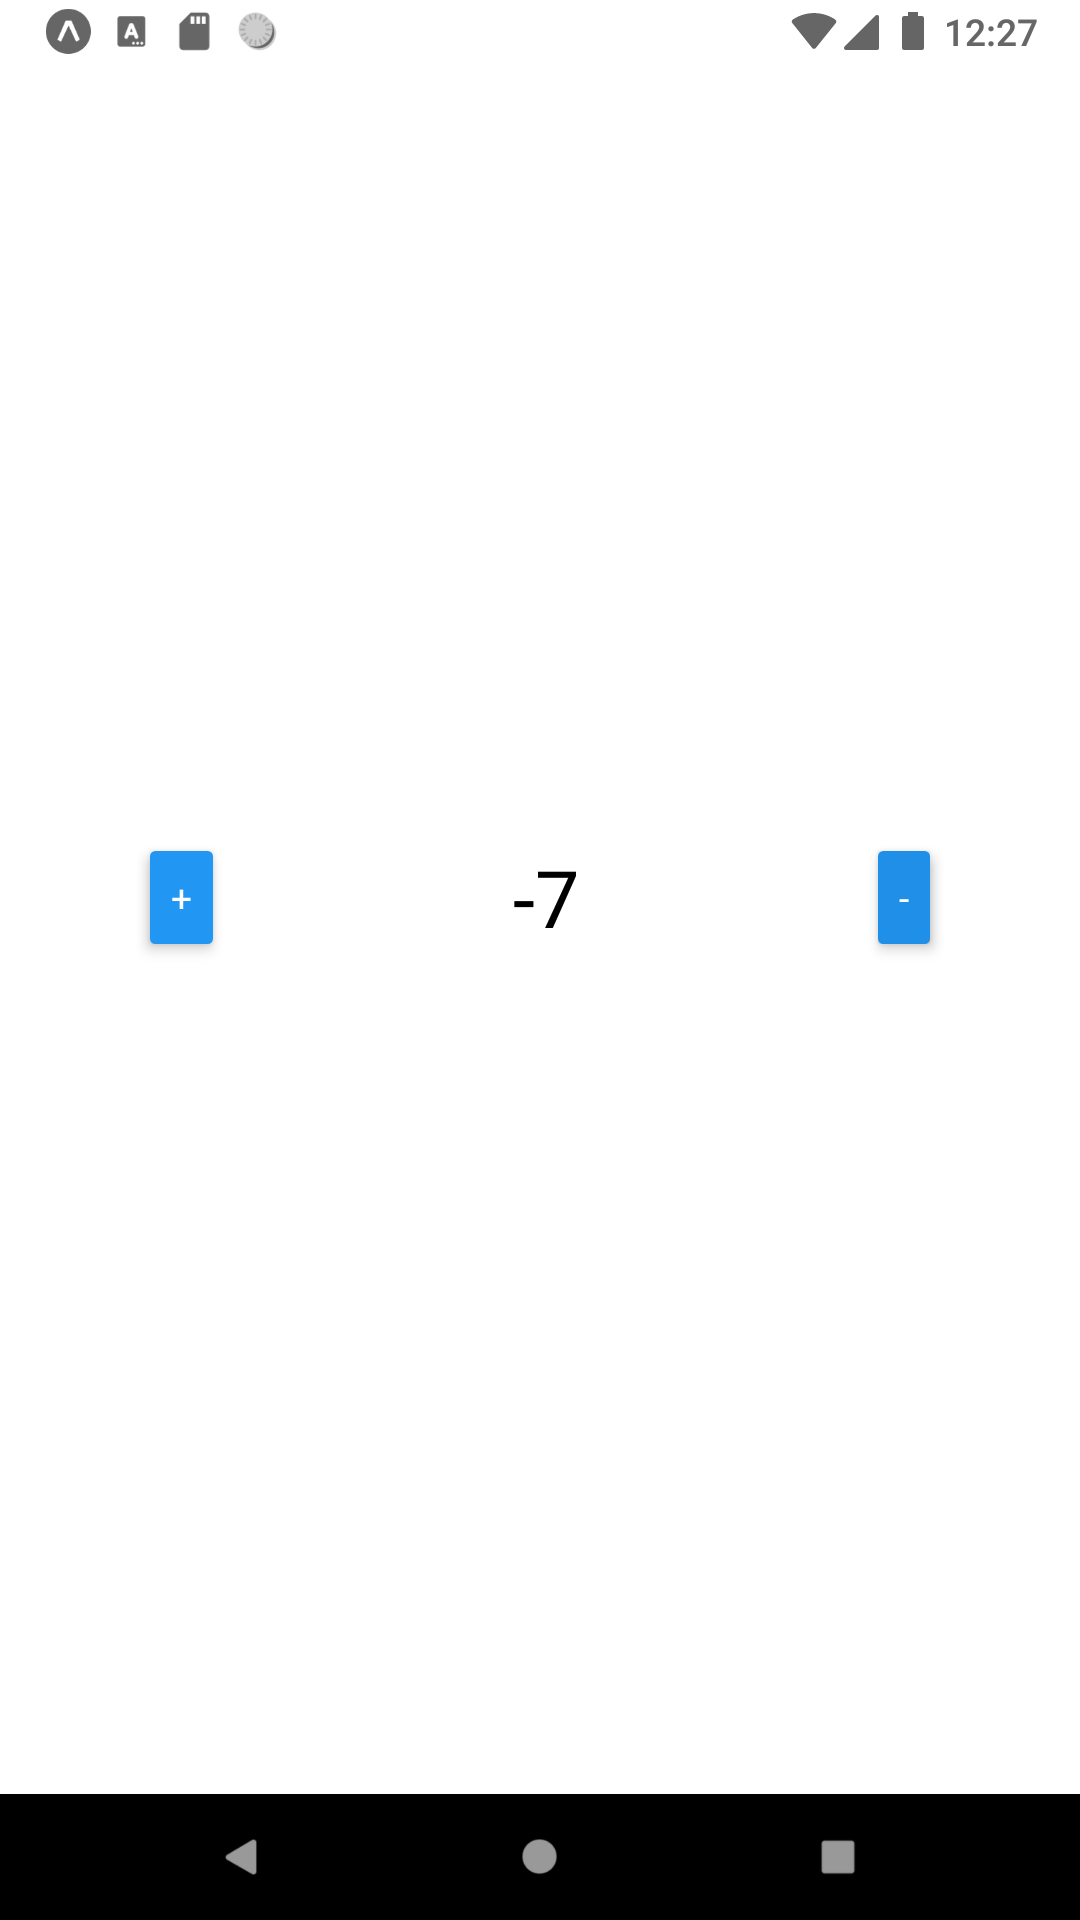
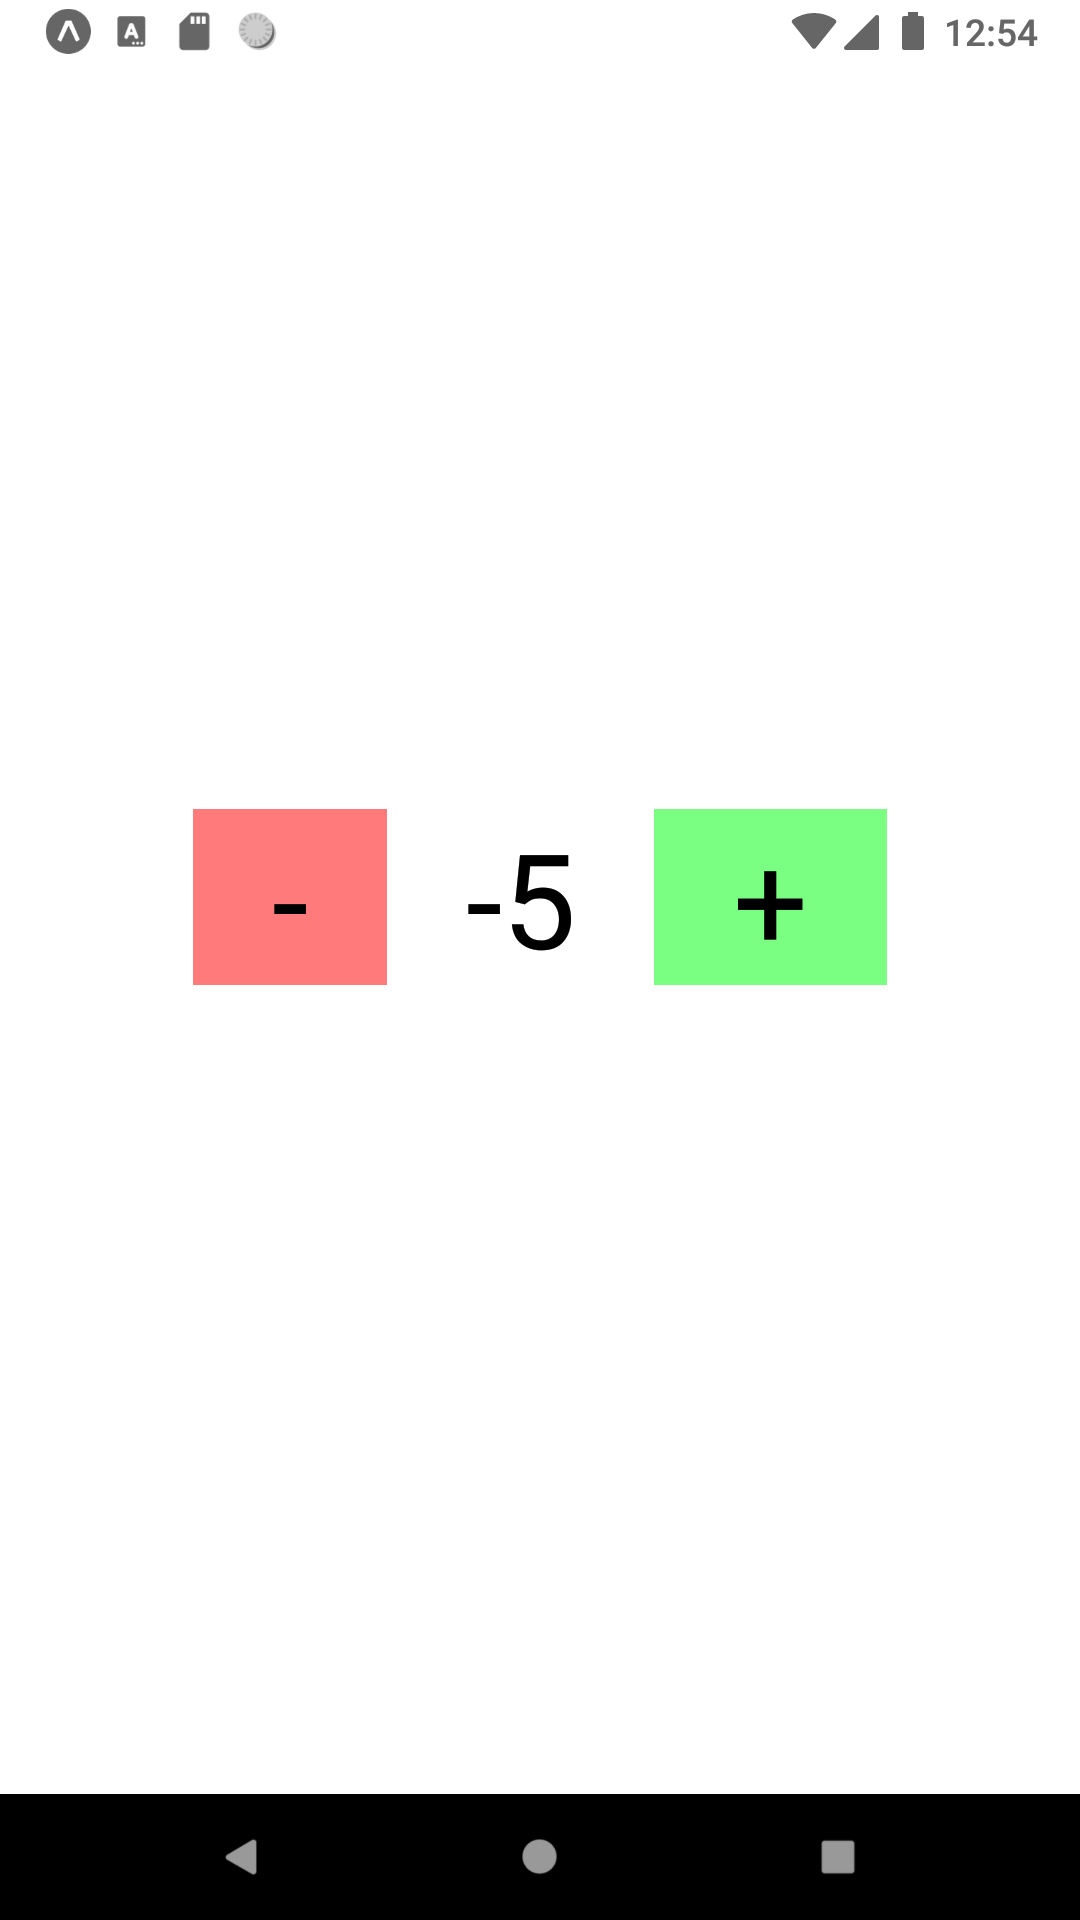
Edited styles

diff --git a/App.js b/App.js
@@ -1,24 +1,30 @@
 import { StatusBar } from 'expo-status-bar';
 import React, { useState } from 'react';
-import { StyleSheet, Text, View, Button } from 'react-native';
+import { StyleSheet, Text, View, TouchableOpacity } from 'react-native';
 
 
 
 function App() {
 
   const [counter, setCounter] = useState(0);
+  const increase = () => setCounter(counter + 1);
+  const decrease = () => setCounter(counter - 1);
 
   return (
     <View style={styles.container}>
-      <Button
-        style={styles.button}
-        title="+"
-        onPress={() => setCounter(counter + 1)} />
+      <TouchableOpacity
+        onPress={decrease}>
+        <View style={styles.button, {backgroundColor: '#FF7B7B'}}>
+          <Text style={styles.counter}>-</Text>
+        </View>
+      </TouchableOpacity>
       <Text style={styles.counter}>{counter}</Text>
-      <Button
-        style={styles.button}
-        title="-"
-        onPress={() => setCounter(counter - 1)} />
+      <TouchableOpacity
+        onPress={increase}>
+        <View style={styles.button, {backgroundColor: '#7BFF83'}}>
+          <Text style={styles.counter}>+</Text>
+        </View>
+      </TouchableOpacity>
       <StatusBar style="auto" />
     </View>
   );
@@ -30,10 +36,14 @@ const styles = StyleSheet.create({
     flexDirection: 'row',
     backgroundColor: '#fff',
     alignItems: 'center',
-    justifyContent: 'space-around',
+    justifyContent: 'center',
   },
   counter: {
-    fontSize: 30,
+    fontSize: 50,
+    marginHorizontal: 30,
+  },
+  button: {
+    paddingHorizontal: 8,
   },
 });
 
